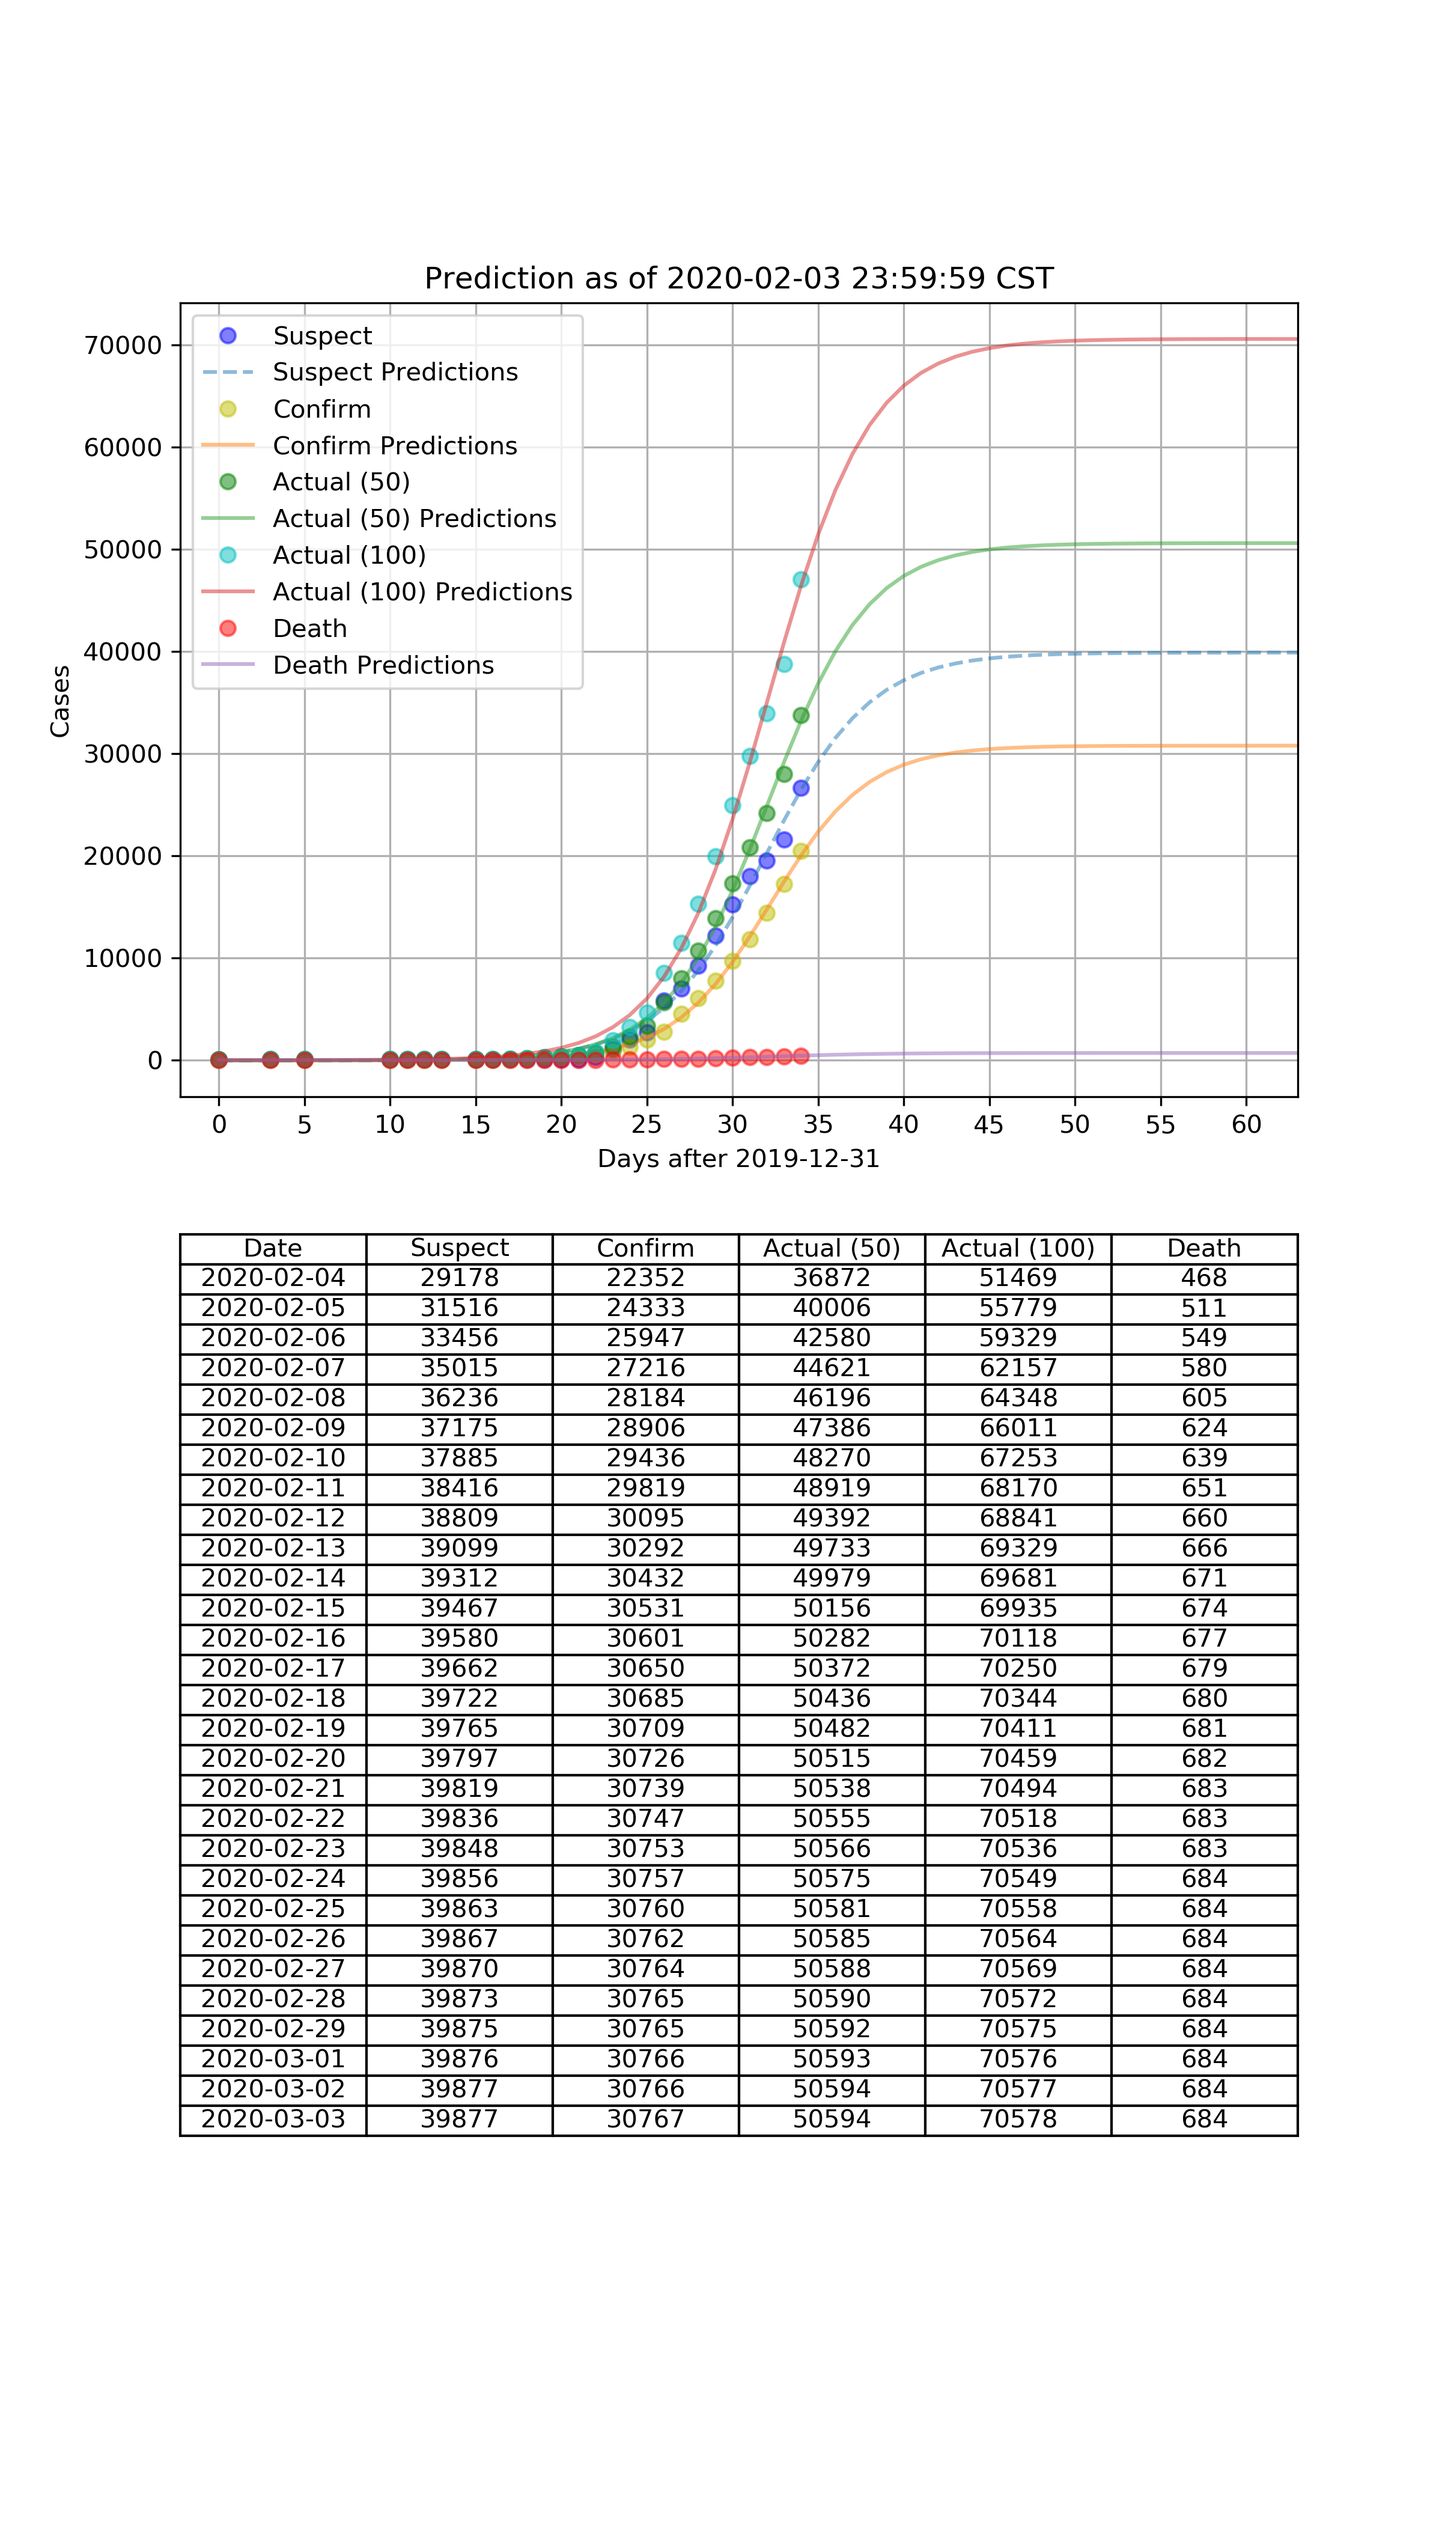
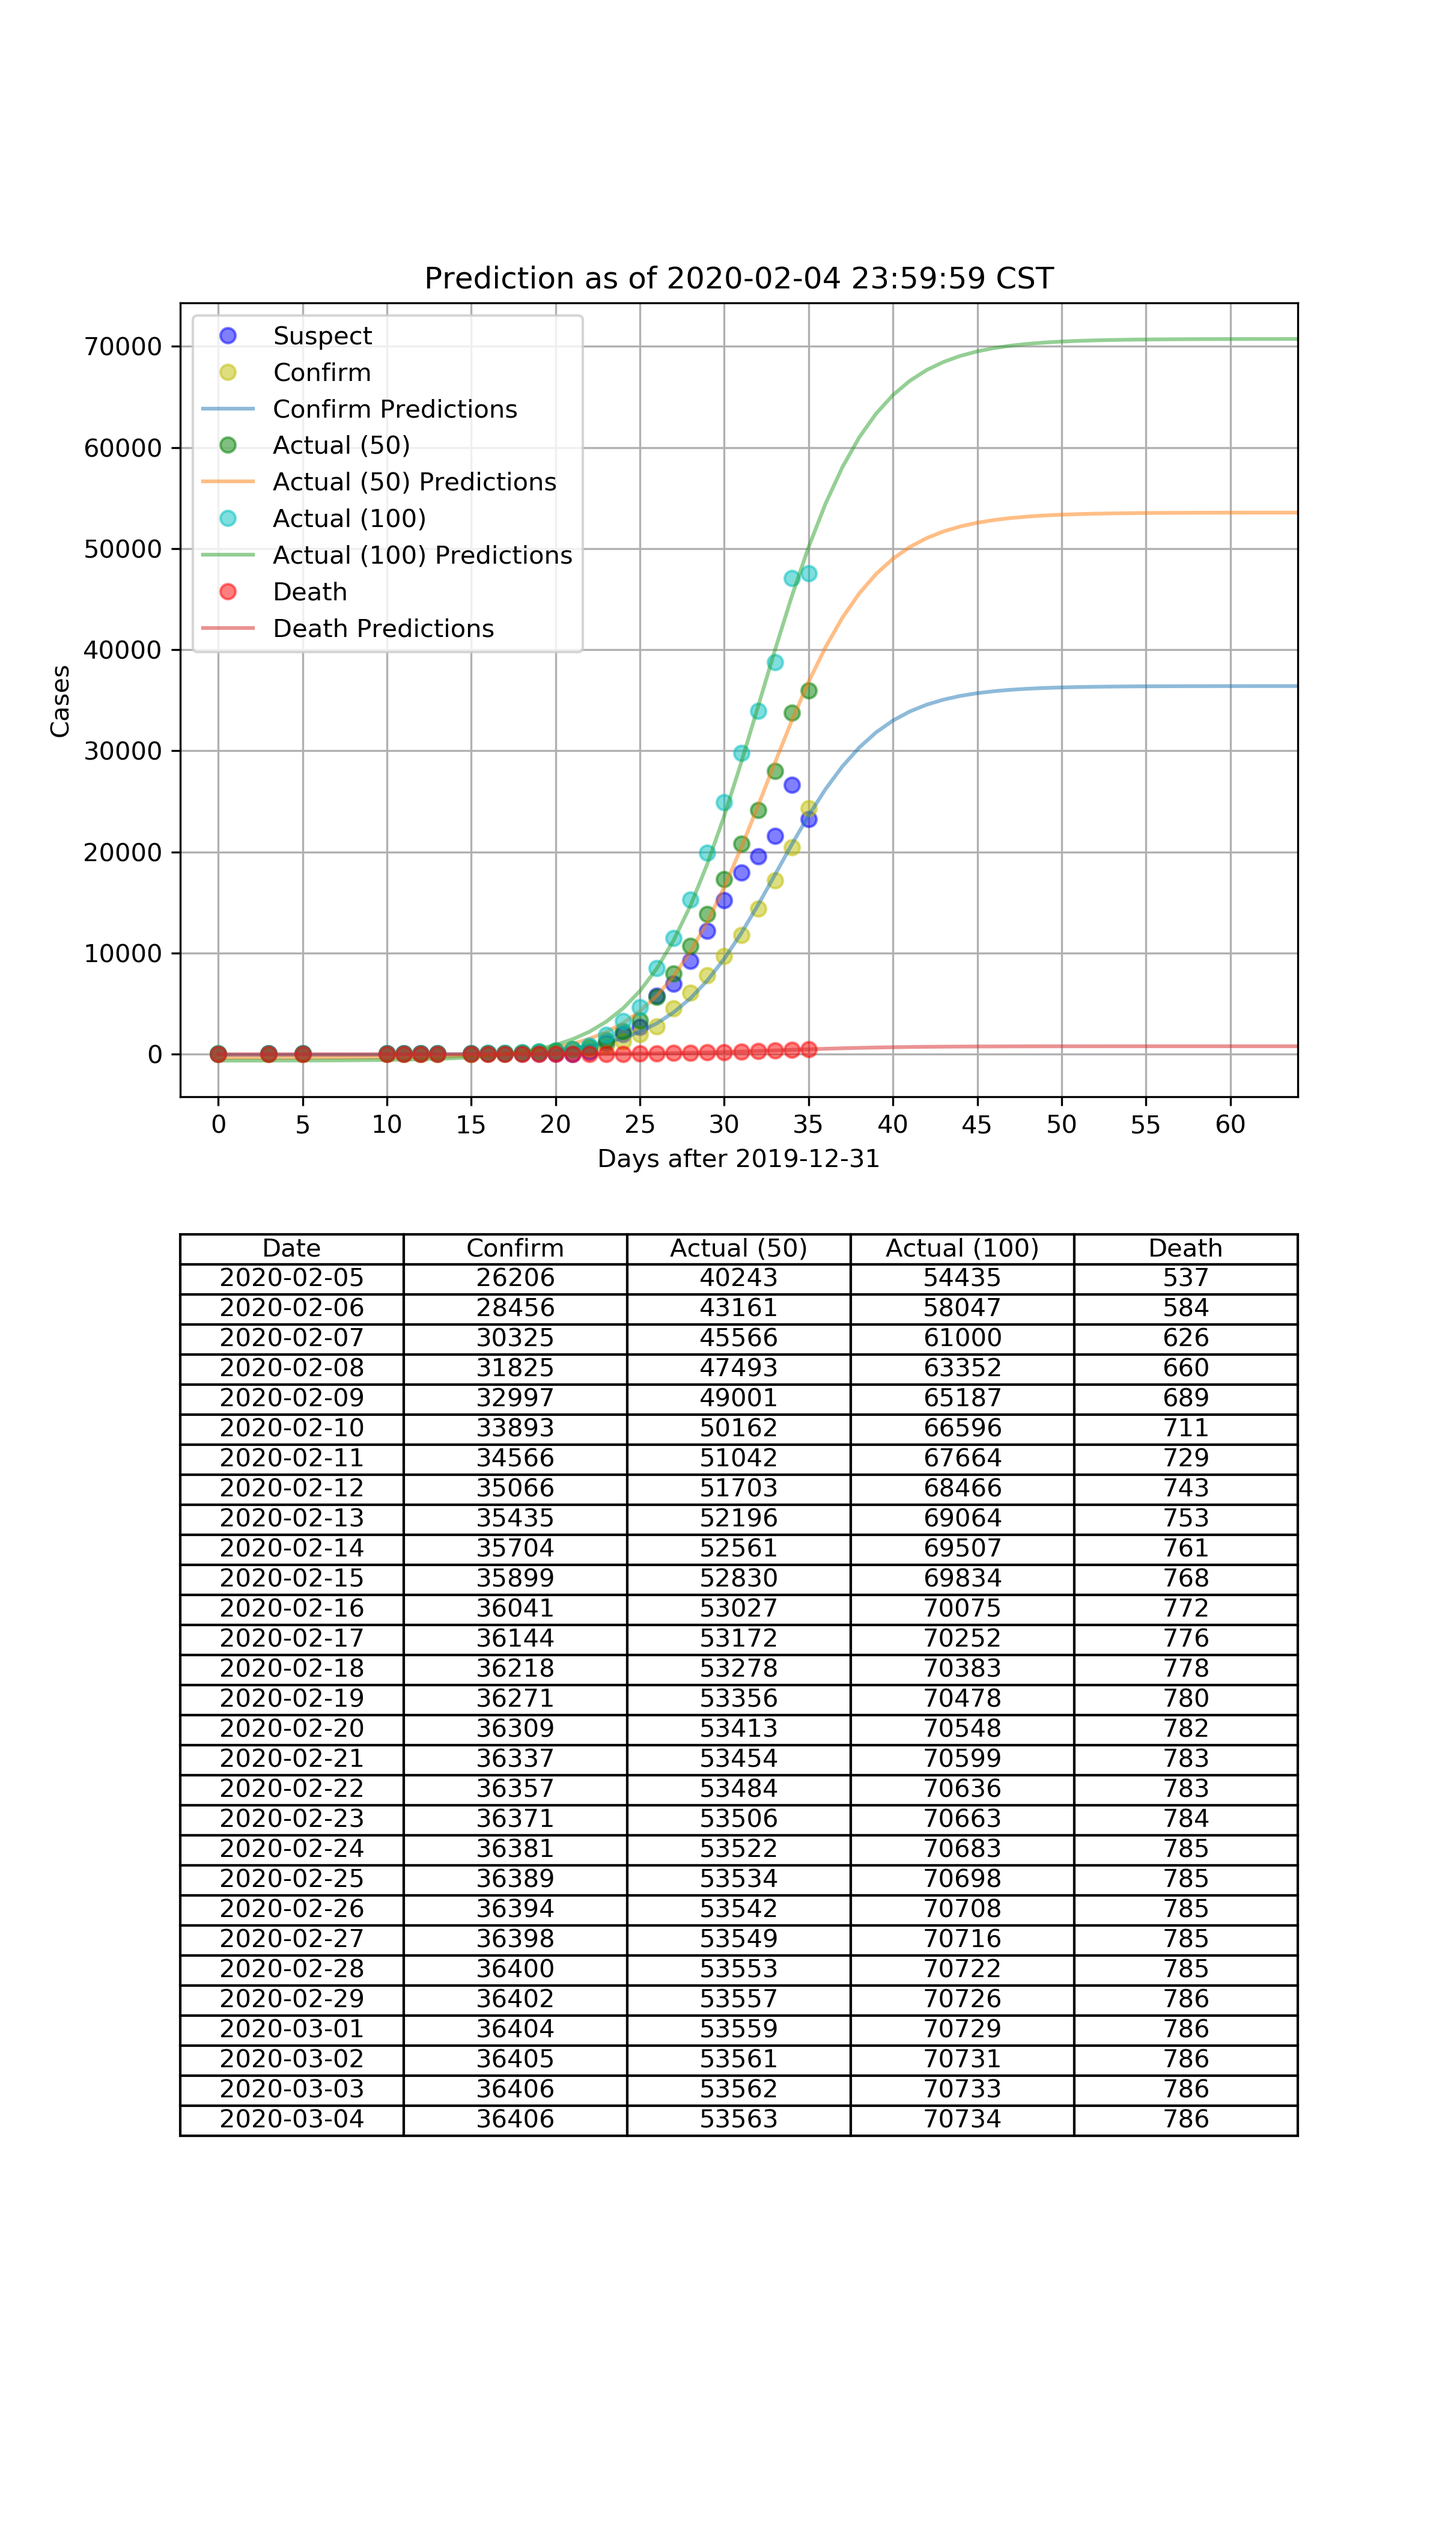
update 2020-02-04

diff --git a/2019_nCoV.py b/2019_nCoV.py
@@ -52,7 +52,7 @@ def trainModel(model, X, y):
     # optimizer = torch.optim.SGD(model.parameters(), lr=learningRate)
     optimizer = torch.optim.Adam(model.parameters())
 
-    last_loss = 0
+    last_loss = float('inf')
     early_terminate_counter = 0
     for epoch in range(epochs):
         # Converting inputs and labels to Variable
@@ -80,32 +80,29 @@ def trainModel(model, X, y):
         if epoch % 10000 == 0:
             print('epoch {}, loss {}'.format(epoch, loss.item()))
 
-        if loss >= last_loss:
+        if loss.item() >= last_loss:
             early_terminate_counter += 1
+            if early_terminate_counter >= 10000:
+                print('[early terminate] epoch {}, loss {}'.format(epoch, loss.item()))
+                break
         else:
             early_terminate_counter = 0
-
-        if early_terminate_counter >= 100000:
-            print('[early terminate] epoch {}, loss {}'.format(epoch, loss.item()))
-            break
-
-        if last_loss > loss:
-            last_loss = loss
+            last_loss = loss.item()
 
 
-sModel = SigmoidRegression(Ys[0][-1] * 1.5, 27, 1, today_days + 1)
+# sModel = SigmoidRegression(Ys[0][-1] * 1.5, 27, 1, today_days + 1)
 cModel = SigmoidRegression(Ys[1][-1] * 1.5, 41, 1, today_days + 1)
 scModel = SigmoidRegression((Ys[0] / 2 + Ys[1])[-1] * 1.5, 55, 1, today_days + 1)
 sc100Model = SigmoidRegression((Ys[0] + Ys[1])[-1] * 1.5, 68, 1, today_days + 1)
 dModel = SigmoidRegression(Ys[2][-1] * 1.5, 0, 0.4, today_days + 1)
 
-trainModel(sModel, X, np.array(Ys[0], dtype=np.float32))
+# trainModel(sModel, X, np.array(Ys[0], dtype=np.float32))
 trainModel(cModel, X, np.array(Ys[1], dtype=np.float32))
 trainModel(scModel, X, np.array(Ys[0] / 2 + Ys[1], dtype=np.float32))
 trainModel(sc100Model, X, np.array(Ys[0] + Ys[1], dtype=np.float32))
 trainModel(dModel, X, np.array(Ys[2], dtype=np.float32))
 
-spredicted = []
+# spredicted = []
 cpredicted = []
 scP = []
 sc100P = []
@@ -113,7 +110,7 @@ dP = []
 
 with torch.no_grad():  # we don't need gradients in the testing
     for i in np.arange(today_days + 30):
-        spredicted.append(sModel(torch.from_numpy(np.array([i])).to(device)).cpu().data.numpy().item())
+        # spredicted.append(sModel(torch.from_numpy(np.array([i])).to(device)).cpu().data.numpy().item())
         cpredicted.append(cModel(torch.from_numpy(np.array([i])).to(device)).cpu().data.numpy().item())
         scP.append(scModel(torch.from_numpy(np.array([i])).to(device)).cpu().data.numpy().item())
         sc100P.append(sc100Model(torch.from_numpy(np.array([i])).to(device)).cpu().data.numpy().item())
@@ -131,12 +128,12 @@ def graph():
 
     axs[0].title.set_text('Prediction as of {} CST'.format(str(today_date + timedelta(hours=23, minutes=59, seconds=59))))
 
-    collabel = ("Date", "Suspect", "Confirm", "Actual (50)", "Actual (100)", "Death")
+    collabel = ("Date", "Confirm", "Actual (50)", "Actual (100)", "Death")
     axs[1].axis('tight')
     axs[1].axis('off')
     the_table = axs[1].table(
         cellText=np.array([[str((init_date + timedelta(days=i)).date()) for i in range(today_days + 30)],
-                           np.round(spredicted).astype(int),
+                           # np.round(spredicted).astype(int),
                            np.round(cpredicted).astype(int),
                            np.round(scP).astype(int),
                            np.round(sc100P).astype(int),
@@ -150,7 +147,7 @@ def graph():
     axs[0].set_ylabel('Cases')
 
     axs[0].plot(X, Ys[0], 'bo', label='Suspect', alpha=0.5)
-    axs[0].plot(np.arange(today_days + 30), spredicted, '--', label='Suspect Predictions', alpha=0.5)
+    # axs[0].plot(np.arange(today_days + 30), spredicted, '--', label='Suspect Predictions', alpha=0.5)
 
     axs[0].plot(X, Ys[1], 'yo', label='Confirm', alpha=0.5)
     axs[0].plot(np.arange(today_days + 30), cpredicted, '-', label='Confirm Predictions', alpha=0.5)

diff --git a/2019_nCoV_SIR.py b/2019_nCoV_SIR.py
@@ -26,7 +26,7 @@ I0, R0 = 55, 0
 # Everyone else, S0, is susceptible to infection initially.
 S0 = N - I0 - R0
 # Contact rate, beta, and mean recovery rate, gamma, (in 1/days).
-beta, gamma = 0.44, 3.5e-3
+beta, gamma = 0.44, 5e-3
 # A grid of time points (in days)
 t = np.linspace(0, 365, 365)
 
